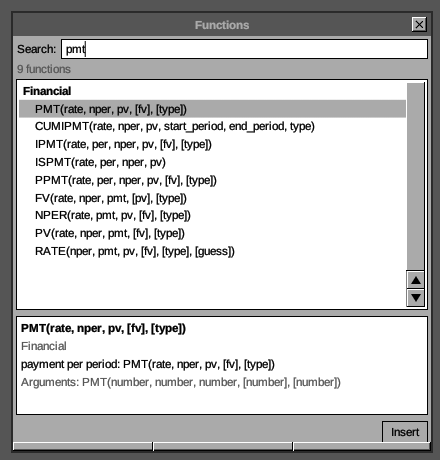
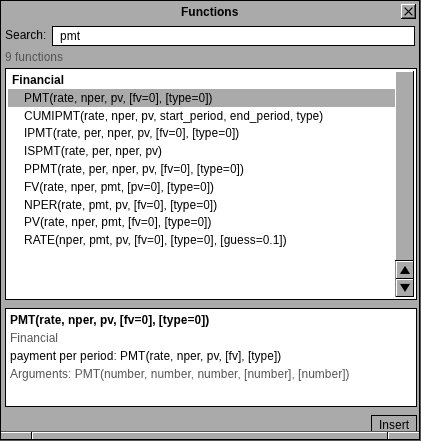
docs(gui): new stills of the round-2 GUI, taken by gui-stills.sh
docs/demo/gui-stills.sh starts Xvfb and improv-gui on the sample model,
takes every still in one run and cleans up. New: the Inspector, the
Format panel, a color graph as Bar and Line, Print with Page Layout,
Point for Help on a tile, and a group selection on stacked rows.
Re-taken in the current look: the workspace, the worksheet, stacked
rows, the Functions window and the two autocomplete stills. Each is
embedded in gui-tour.md with a sentence saying what it shows; together
they are 228 KB.

diff --git a/docs/src/gui-tour.md b/docs/src/gui-tour.md
@@ -29,7 +29,16 @@ step does. Recorded by `docs/demo/gui-movie.sh`.*
 
 ## The pivot grid
 
-![Improv GUI — pivot grid](./img/gui-pivot-grid.png)
+![The whole workspace: the main menu, the Revenue and Quantity worksheets side by side, the model browser below, and a color bar graph of Revenue at the bottom right](./img/gui-workspace.png)
+
+*The whole workspace: the main menu at the top left, two worksheets on
+one model, the model browser under them and a graph of the Revenue
+worksheet.*
+
+![The Revenue worksheet: the Region tile and its North page above the grid, Product on the columns, Time on the rows, and five numbered formulas below](./img/gui-pivot-grid.png)
+
+*One worksheet window: Revenue with Region paged (North), Product on the
+columns, Time on the rows, and the formula list under the grid.*
 
 The window has five regions:
 
@@ -275,6 +284,12 @@ worksheet and **Revert** reads it back:
 - **Formulas**: **Show Errors In Line**. Off, a formula's error moves from
   under its row to its status indicator's tip.
 
+![The Inspector's Grid page with Lines In set to Cell Area, beside the worksheet it applies to](./img/gui-inspector.png)
+
+*The Inspector on its Grid page, Lines In the Cell Area: the worksheet
+beside it keeps its cell rules and drops the ones between the item
+names.*
+
 **Format ▸ Format Panel…** (Ctrl+Shift+F) has two pages over a sample;
 **Set** applies both:
 
@@ -283,6 +298,11 @@ worksheet and **Revert** reads it back:
   format, as the Format menu's rows do, as one undo step.
 - **Alignment**: **Smart** (numbers right, text left), **Left**,
   **Center** or **Right**, for the worksheet's cells.
+
+![The Format panel's Number page set to Specific, 2 decimal places and Commas, its sample reading -1,234.57, and the worksheet showing 1,122.00](./img/gui-format-panel.png)
+
+*The Format panel's Number page after **Set**: two decimal places with
+commas, in the sample and in the worksheet.*
 
 The worksheet's options (the Inspector's, and the alignment) stay with its
 window for the session; they are not saved in the view yet. Improv's
@@ -310,6 +330,12 @@ one cell is selected), then:
 **Format ▸ Page Layout…** sets the **Paper Size** (Letter, Legal, A4), the
 **Orientation** (Portrait or Landscape) and the **Scale** (50% prints at
 half size, so more fits on a page).
+
+![The Page Layout panel set to Letter, Landscape, 100 percent, above the Print panel with one copy, all pages, the default printer and the file demo.pdf](./img/gui-print.png)
+
+*Page Layout (Letter, landscape) above the Print panel. With no print
+system on this machine, Print is grayed, and the pages go to
+`demo.pdf`.*
 
 **Format ▸ Report Layout…** sets the **Header** and **Footer**, each with
 a left, a centered and a right part, the **First Page Number**, **Number
@@ -347,6 +373,10 @@ The line above the graph is its inspector:
 Every bar, wedge and marker is outlined in black, and the legend at the
 right names the series. A screen reader hears the graph as "Bar graph of
 2 series over Time".
+
+![Two graph windows of the Revenue worksheet in color: a bar graph and a line graph, each with Widget in red, Gadget in blue and Gizmo in yellow over the four quarters](./img/gui-graphs.png)
+
+*The same worksheet as a Bar graph and as a Line graph, in color.*
 
 ## Scrollers
 
@@ -418,6 +448,11 @@ names, a line each, Cut copies them (an items-only selection cannot be
 cut), and Paste and the Sum are refused. **Edit ▸ Select Cells Only**
 (Ctrl+\]) keeps the cells. The plain `[` and `]` still page.
 
+![Revenue with Region stacked under Time on the rows: clicking 2024Q2 selects its North and South rows and every cell in them](./img/gui-selection.png)
+
+*Region stacked under Time: a click on the outer item 2024Q2 selects its
+group, the North and South rows and their cells.*
+
 ## Copy and paste
 
 **Edit ▸ Copy** (Ctrl+C) puts the worksheet's selection on the clipboard
@@ -452,6 +487,11 @@ lines, with **More in the User Guide** to open its section of this guide
 and its own **Point for Help** button. Help ▸ Functions… (F1) is the
 function browser.
 
+![The Help window on the Category tiles page, beside the worksheet whose Product tile was clicked in Point for Help](./img/gui-context-help.png)
+
+*Point for Help, then a click on the worksheet's Product tile: the Help
+window opens on the page for category tiles.*
+
 ## Function help
 
 **Help ▸ Functions…**, or F1 from anywhere (a formula edit included), opens
@@ -466,7 +506,10 @@ and the argument types. **Insert**, a double-click or Enter puts `NAME(`
 into the formula you were editing (the selected row's, else the
 `Name = formula` line), at the caret, and returns the keyboard to it.
 
-![The Functions window](./img/gui-function-help.png)
+![The Functions window searching pmt: nine financial functions with their signatures, PMT selected, and its signature, category, description and argument types below](./img/gui-function-help.png)
+
+*Searching `pmt`: PMT first, then the functions whose names or
+descriptions match.*
 
 ## Autocomplete
 
@@ -486,9 +529,13 @@ and its parameters trail it in light gray (`PM` shows `T(rate, nper, pv,
 shows the signature with the argument the caret is in **bold and
 underlined**, the description and the category.
 
-![Completing PM](./img/gui-autocomplete.png)
+![Typing Payment = PM in the formula pane: the list offers PMT with its signature and description, and a tip above shows the same](./img/gui-autocomplete.png)
 
-![Inside PMT: the current argument marked](./img/gui-signature.png)
+*Completing `PM`: the list under the edit, the signature tip above it.*
+
+![After Payment = PMT(0.05, the tip shows PMT's signature with nper, the argument the caret is in, in bold and underlined](./img/gui-signature.png)
+
+*Inside the call: the tip marks the argument the caret is in.*
 
 ## Formula errors
 
@@ -518,7 +565,7 @@ same way. Editing the text clears the mark.
 Drag the **Region** tile from the top-left pages strip onto the bottom row strip and the
 row axis becomes the *stacked* product of Time × Region:
 
-![Improv GUI — stacked axes](./img/gui-stacked-axes.png)
+![Revenue with Time and Region stacked on the rows: each quarter label once, over a North row and a South row](./img/gui-stacked-axes.png)
 
 Each Time group (2024Q1, 2024Q2, …) now expands into its Region rows
 (North / South), with the outer Time label printed once per group. Any number of
@@ -580,5 +627,6 @@ backend fails the renderer's first large allocation.
 
 `docs/demo/gui-movie.sh` rebuilds the demo model, runs the GUI on a headless
 X server and records the movie above with `ffmpeg`, driving it with
-`xdotool`. `scripts/gui-shot.sh` takes the screenshot the CI compares
-against its golden image.
+`xdotool`. `docs/demo/gui-stills.sh` takes this page's screenshots the same
+way, in one run. `scripts/gui-shot.sh` takes the screenshot the CI compares
+against its golden image. See `docs/demo/README.md` for what each needs.

diff --git a/docs/demo/README.md b/docs/demo/README.md
@@ -15,6 +15,7 @@ The console movies are recorded by `record.py` (pexpect to an asciicast v2
 | `policies-demo.sh` | pg_improv access policies: the owner sets Cedar policies and grants a role; as the role, filtered rows and cells, a hidden item answering as missing, `explain_access`, a refused and an allowed `set_cells`; the owner reads `explain_access` and `improv.policy_audit` | podman (below) | 6 min, plus the first build |
 | `duckdb-demo.sh` | the DuckDB v1.5.6 CLI with the `improv` extension running the DuckDB tutorial's queries | x86_64 Linux, gh, curl, unzip (it downloads both, below) | 2 min |
 | `gui-movie.sh` | the desktop GUI on a headless Xvfb, driven by xdotool, recorded by ffmpeg, a caption per step drawn under the screen: pivoting, paging, an input edit, a formula with autocomplete, a color graph, the Inspector. `gui-demo.mp4`, `gui-demo.gif` and the poster `gui-demo.png` | Xvfb, xdotool, ImageMagick, xwd (dev shell); gifsicle and an ffmpeg with x11grab and drawtext (`nix shell nixpkgs#ffmpeg-full nixpkgs#gifsicle`); a release build of `improv_cli` and `improv_gui` (`IMPROV_BIN=`) | 2 min; the movie is 90 s |
+| `gui-stills.sh` | the desktop GUI's stills for the GUI chapter, from one run on a headless Xvfb: the workspace, a worksheet, the Inspector, the Format panel, two graphs, Print with Page Layout, context help, the Functions window, autocomplete, stacked rows and a group selection | Xvfb, xdotool, ImageMagick, xwd (dev shell); a release build of `improv_cli` and `improv_gui` (`IMPROV_BIN=`) | 1 min |
 | `recalc-demo.sh` | the older recalculation demo, `recalc-demo.svg`, recorded with asciinema and svg-term-cli as its header says (not `record.py`) | asciinema, npx | not timed here |
 | `sample-model.sh` | not a movie: the 3-D sales model (Time x Product x Region) the TUI, server and GUI movies open | `improv` (`IMPROV=` the binary) | seconds |
 
